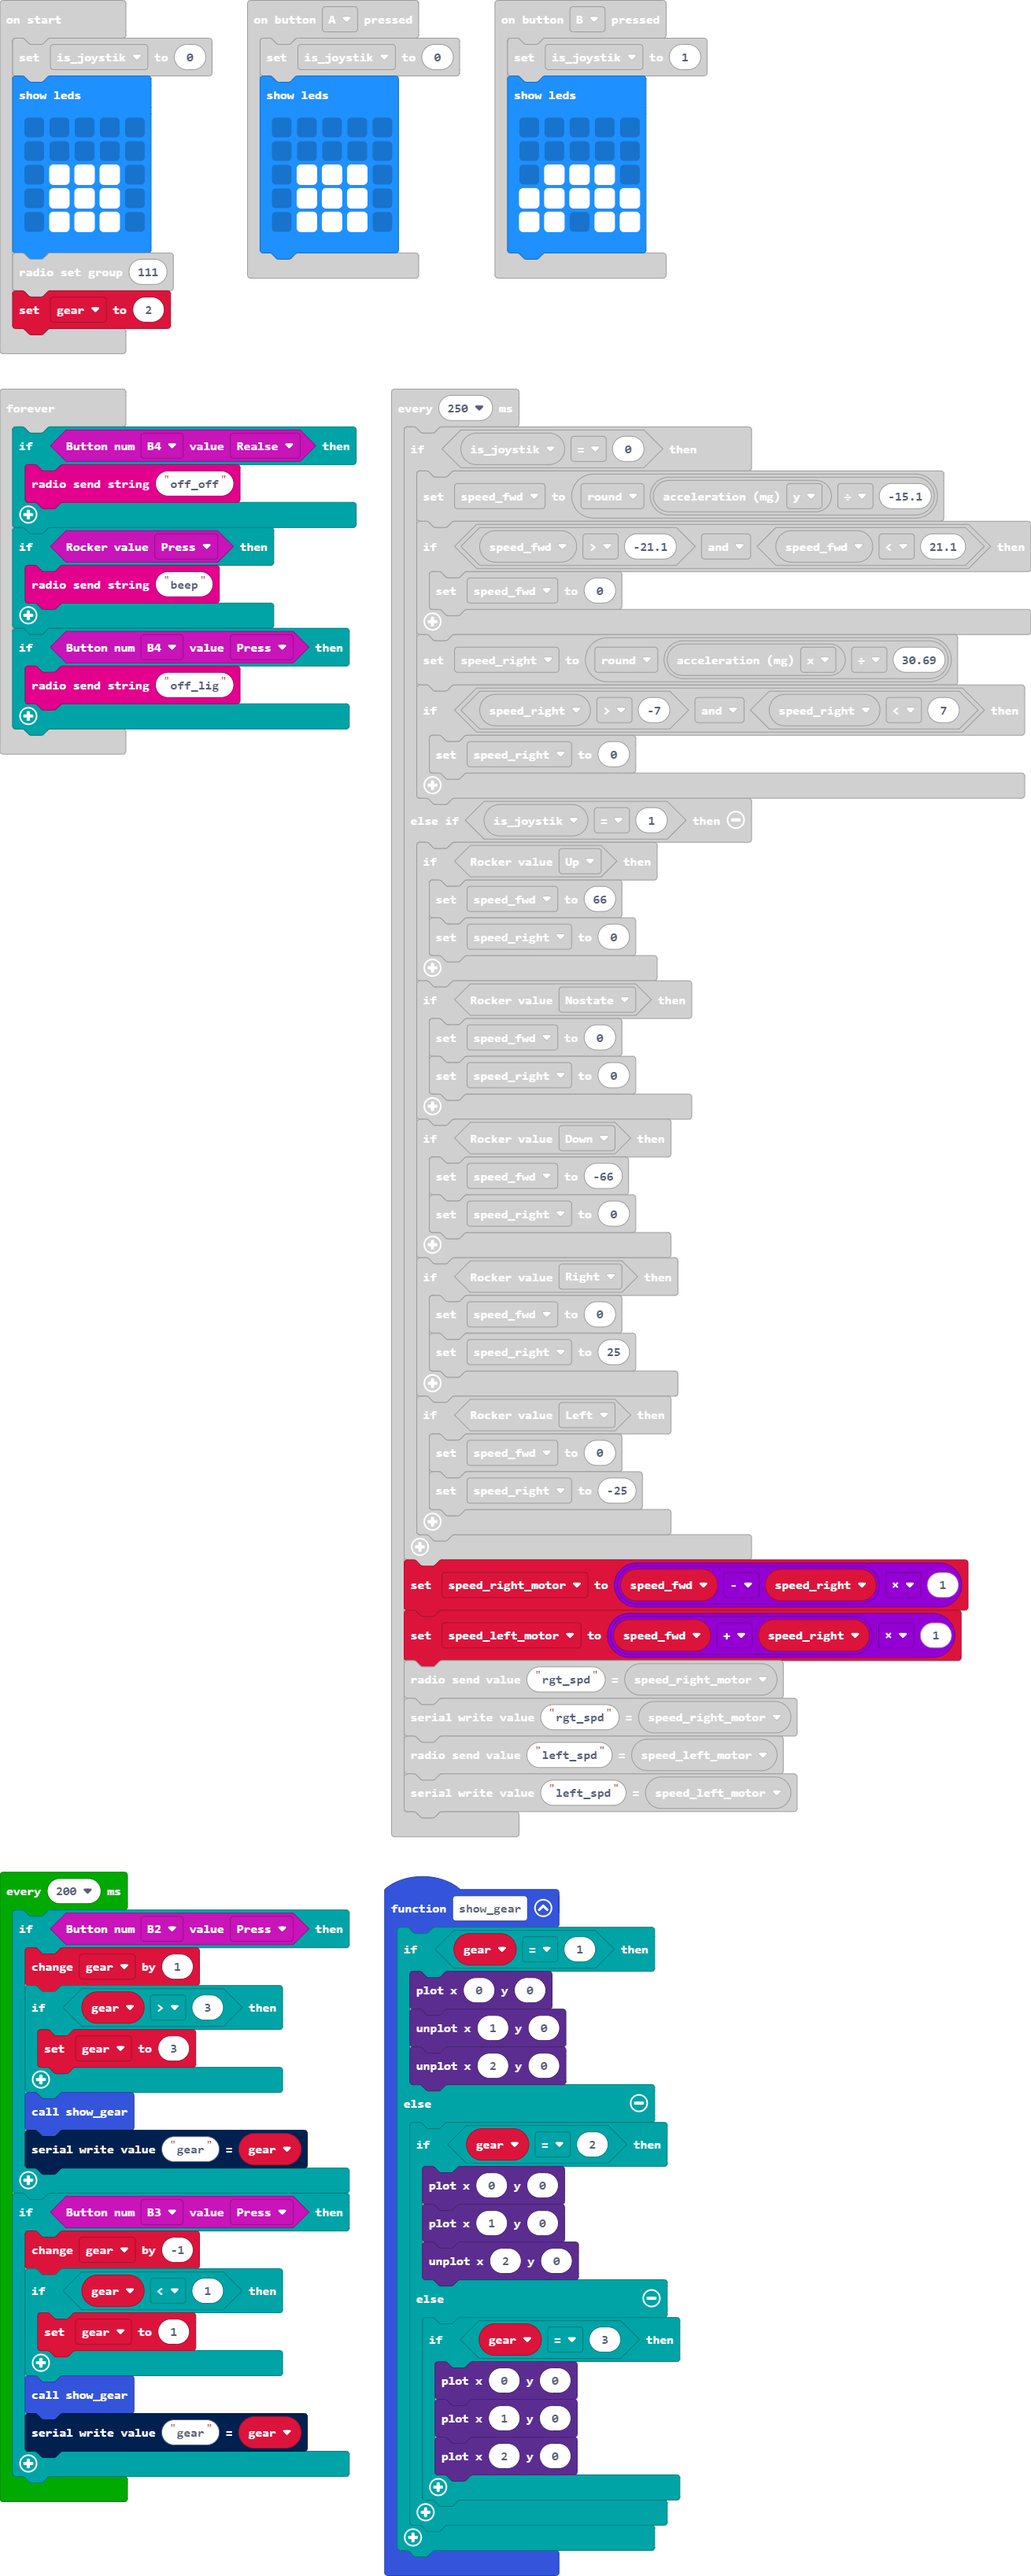
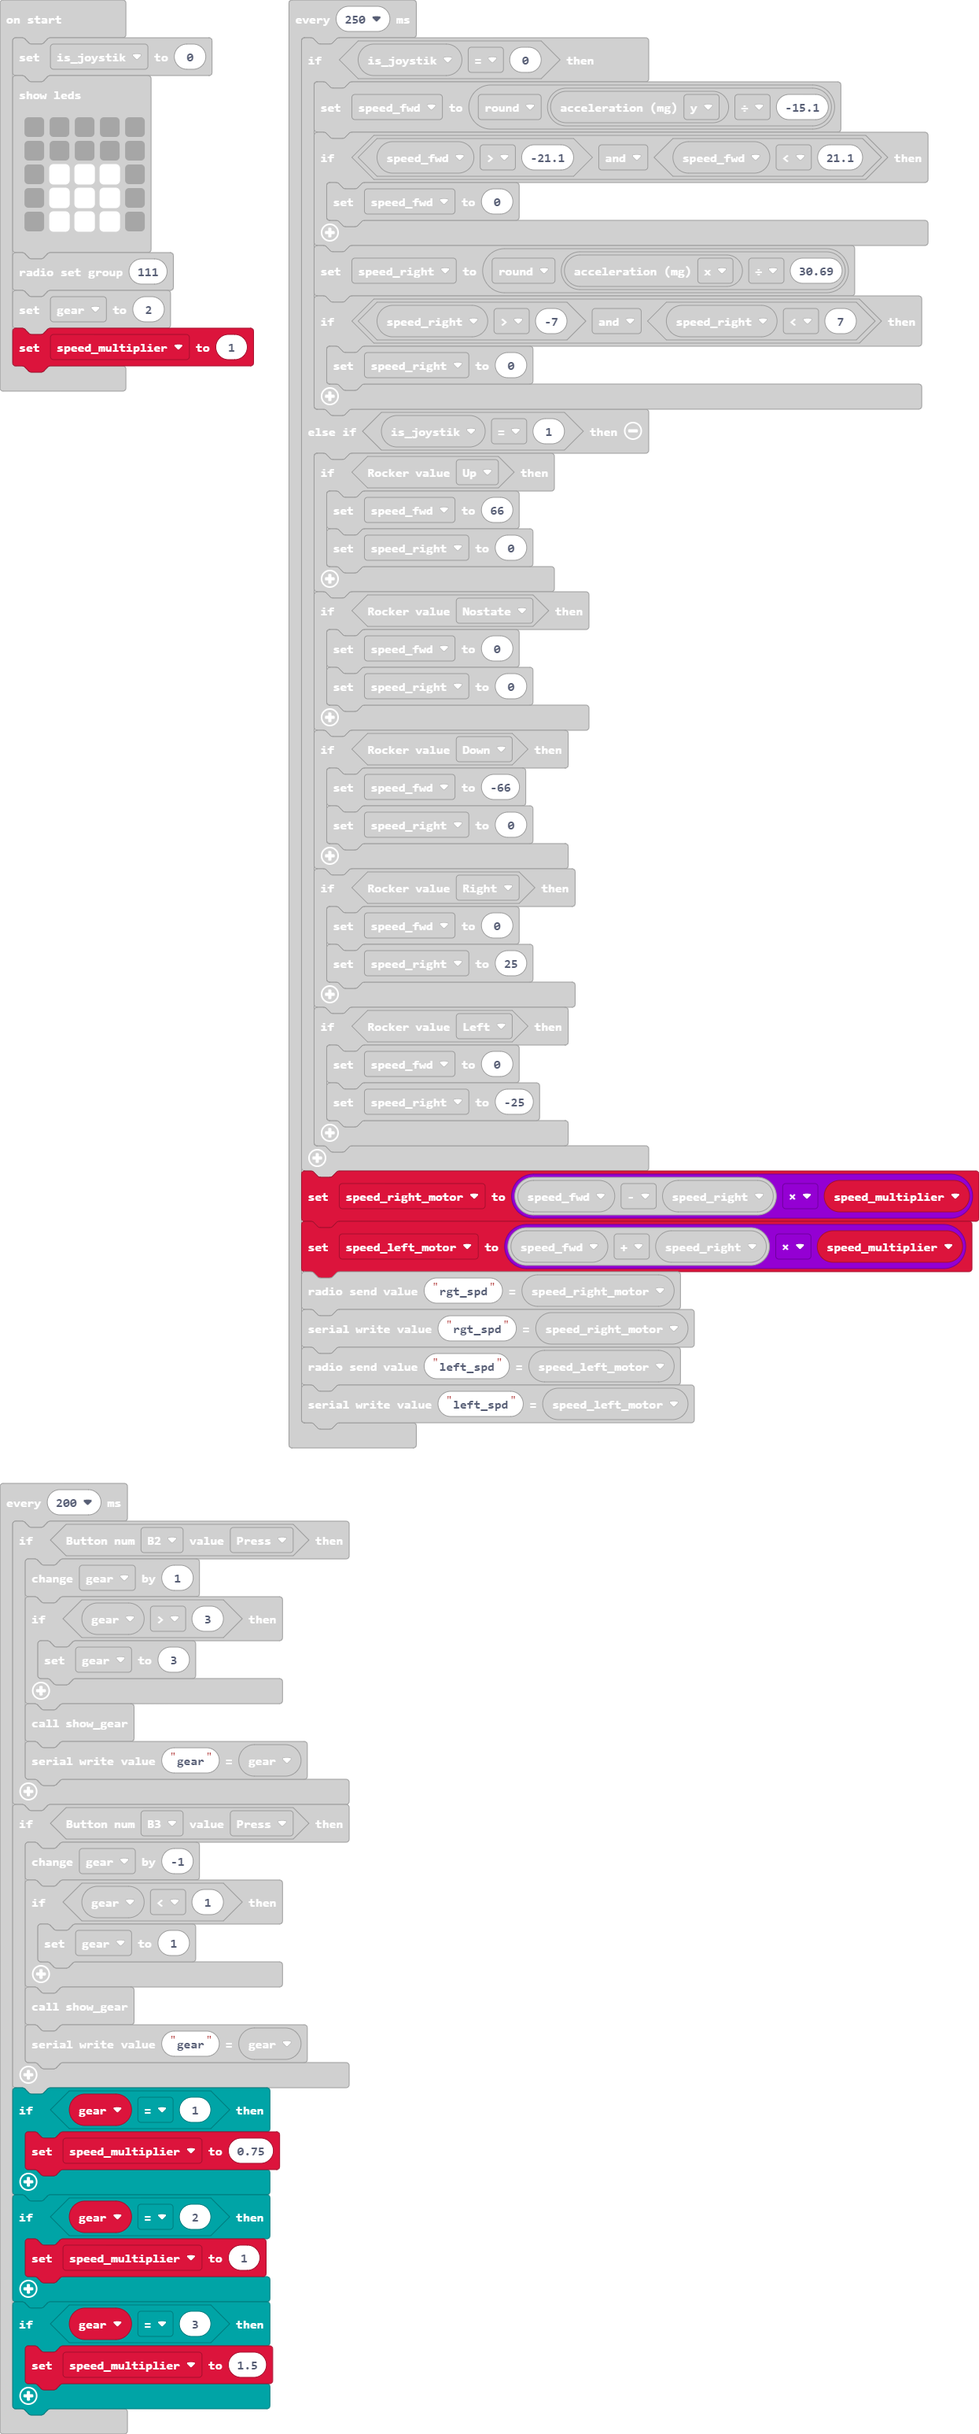
v1.3 - gear works

diff --git a/main.ts b/main.ts
@@ -1,26 +1,139 @@
-input.onButtonPressed(Button.A, function on_button_pressed_a() {
-    radio.sendString("beep")
-    basic.showIcon(IconNames.Happy)
+input.onButtonPressed(Button.A, function () {
+    is_joystik = 0
+    basic.showLeds(`
+        . . . . .
+        . . . . .
+        . # # # .
+        . # # # .
+        . # # # .
+        `)
 })
-input.onButtonPressed(Button.B, function on_button_pressed_b() {
-    radio.sendString("beeeeeeeep")
-    basic.showIcon(IconNames.Sad)
+input.onButtonPressed(Button.B, function () {
+    is_joystik = 1
+    basic.showLeds(`
+        . . . . .
+        . . . . .
+        . # # # .
+        # # # # #
+        # # . # #
+        `)
 })
-radio.onReceivedValue(function on_received_value(name: string, value: number) {
+function show_gear () {
+    if (gear == 1) {
+        led.plot(0, 0)
+        led.unplot(1, 0)
+        led.unplot(2, 0)
+    } else {
+        if (gear == 2) {
+            led.plot(0, 0)
+            led.plot(1, 0)
+            led.unplot(2, 0)
+        } else {
+            if (gear == 3) {
+                led.plot(0, 0)
+                led.plot(1, 0)
+                led.plot(2, 0)
+            }
+        }
+    }
+}
+radio.onReceivedValue(function (name, value) {
     serial.writeValue(name, value)
 })
+input.onLogoEvent(TouchButtonEvent.Pressed, function () {
+    radio.sendString("beep")
+})
+let speed_left_motor = 0
+let speed_right_motor = 0
 let speed_right = 0
 let speed_fwd = 0
+let gear = 0
+let is_joystik = 0
+is_joystik = 0
+basic.showLeds(`
+    . . . . .
+    . . . . .
+    . # # # .
+    . # # # .
+    . # # # .
+    `)
 radio.setGroup(111)
-basic.forever(function on_forever() {
-    
+gear = 2
+let speed_multiplier = 1
+basic.forever(function () {
+    if (GHBit.Button(GHBit.enButton.B4, GHBit.enButtonState.Realse)) {
+        radio.sendString("off_off")
+    }
+    if (GHBit.Rocker(GHBit.enRocker.Press)) {
+        radio.sendString("beep")
+    }
+    if (GHBit.Button(GHBit.enButton.B4, GHBit.enButtonState.Press)) {
+        radio.sendString("off_lig")
+    }
 })
-loops.everyInterval(250, function on_every_interval() {
-    
-    speed_fwd = Math.round(input.acceleration(Dimension.Y) / -10.23)
-    radio.sendValue("speed_forward", speed_fwd)
-    serial.writeValue("acc_y", speed_fwd)
-    speed_right = Math.round(input.acceleration(Dimension.X) / 10.23)
-    radio.sendValue("speed_right", speed_right)
-    serial.writeValue("acc_x", speed_right)
+loops.everyInterval(250, function () {
+    if (is_joystik == 0) {
+        speed_fwd = Math.round(input.acceleration(Dimension.Y) / -15.1)
+        if (speed_fwd > -21.1 && speed_fwd < 21.1) {
+            speed_fwd = 0
+        }
+        speed_right = Math.round(input.acceleration(Dimension.X) / 30.69)
+        if (speed_right > -7 && speed_right < 7) {
+            speed_right = 0
+        }
+    } else if (is_joystik == 1) {
+        if (GHBit.Rocker(GHBit.enRocker.Up)) {
+            speed_fwd = 66
+            speed_right = 0
+        }
+        if (GHBit.Rocker(GHBit.enRocker.Nostate)) {
+            speed_fwd = 0
+            speed_right = 0
+        }
+        if (GHBit.Rocker(GHBit.enRocker.Down)) {
+            speed_fwd = -66
+            speed_right = 0
+        }
+        if (GHBit.Rocker(GHBit.enRocker.Right)) {
+            speed_fwd = 0
+            speed_right = 25
+        }
+        if (GHBit.Rocker(GHBit.enRocker.Left)) {
+            speed_fwd = 0
+            speed_right = -25
+        }
+    }
+    speed_right_motor = (speed_fwd - speed_right) * speed_multiplier
+    speed_left_motor = (speed_fwd + speed_right) * speed_multiplier
+    radio.sendValue("rgt_spd", speed_right_motor)
+    serial.writeValue("rgt_spd", speed_right_motor)
+    radio.sendValue("left_spd", speed_left_motor)
+    serial.writeValue("left_spd", speed_left_motor)
+})
+loops.everyInterval(200, function () {
+    if (GHBit.Button(GHBit.enButton.B2, GHBit.enButtonState.Press)) {
+        gear += 1
+        if (gear > 3) {
+            gear = 3
+        }
+        show_gear()
+        serial.writeValue("gear", gear)
+    }
+    if (GHBit.Button(GHBit.enButton.B3, GHBit.enButtonState.Press)) {
+        gear += -1
+        if (gear < 1) {
+            gear = 1
+        }
+        show_gear()
+        serial.writeValue("gear", gear)
+    }
+    if (gear == 1) {
+        speed_multiplier = 0.75
+    }
+    if (gear == 2) {
+        speed_multiplier = 1
+    }
+    if (gear == 3) {
+        speed_multiplier = 1.5
+    }
 })

diff --git a/main.py b/main.py
@@ -1,31 +1,129 @@
 def on_button_pressed_a():
-    radio.send_string("beep")
-    basic.show_icon(IconNames.HAPPY)
+    global is_joystik
+    is_joystik = 0
+    basic.show_leds("""
+        . . . . .
+                . . . . .
+                . # # # .
+                . # # # .
+                . # # # .
+    """)
 input.on_button_pressed(Button.A, on_button_pressed_a)
 
 def on_button_pressed_b():
-    radio.send_string("beeeeeeeep")
-    basic.show_icon(IconNames.SAD)
+    global is_joystik
+    is_joystik = 1
+    basic.show_leds("""
+        . . . . .
+                . . . . .
+                . # # # .
+                # # # # #
+                # # . # #
+    """)
 input.on_button_pressed(Button.B, on_button_pressed_b)
+
+def show_gear():
+    if gear == 1:
+        led.plot(0, 0)
+        led.unplot(1, 0)
+        led.unplot(2, 0)
+    else:
+        if gear == 2:
+            led.plot(0, 0)
+            led.plot(1, 0)
+            led.unplot(2, 0)
+        else:
+            if gear == 3:
+                led.plot(0, 0)
+                led.plot(1, 0)
+                led.plot(2, 0)
 
 def on_received_value(name, value):
     serial.write_value(name, value)
 radio.on_received_value(on_received_value)
 
+def on_logo_pressed():
+    radio.send_string("beep")
+input.on_logo_event(TouchButtonEvent.PRESSED, on_logo_pressed)
+
+speed_left_motor = 0
+speed_right_motor = 0
 speed_right = 0
 speed_fwd = 0
+gear = 0
+is_joystik = 0
+is_joystik = 0
+basic.show_leds("""
+    . . . . .
+        . . . . .
+        . # # # .
+        . # # # .
+        . # # # .
+""")
 radio.set_group(111)
+gear = 2
+speed_multiplier = 1
 
 def on_forever():
-    pass
+    if GHBit.button(GHBit.enButton.B4, GHBit.enButtonState.REALSE):
+        radio.send_string("off_off")
+    if GHBit.rocker(GHBit.enRocker.PRESS):
+        radio.send_string("beep")
+    if GHBit.button(GHBit.enButton.B4, GHBit.enButtonState.PRESS):
+        radio.send_string("off_lig")
 basic.forever(on_forever)
 
 def on_every_interval():
-    global speed_fwd, speed_right
-    speed_fwd = Math.round(input.acceleration(Dimension.Y) / -10.23)
-    radio.send_value("speed_forward", speed_fwd)
-    serial.write_value("acc_y", speed_fwd)
-    speed_right = Math.round(input.acceleration(Dimension.X) / 10.23)
-    radio.send_value("speed_right", speed_right)
-    serial.write_value("acc_x", speed_right)
+    global speed_fwd, speed_right, speed_right_motor, speed_left_motor
+    if is_joystik == 0:
+        speed_fwd = Math.round(input.acceleration(Dimension.Y) / -15.1)
+        if speed_fwd > -21.1 and speed_fwd < 21.1:
+            speed_fwd = 0
+        speed_right = Math.round(input.acceleration(Dimension.X) / 30.69)
+        if speed_right > -7 and speed_right < 7:
+            speed_right = 0
+    elif is_joystik == 1:
+        if GHBit.rocker(GHBit.enRocker.UP):
+            speed_fwd = 66
+            speed_right = 0
+        if GHBit.rocker(GHBit.enRocker.NOSTATE):
+            speed_fwd = 0
+            speed_right = 0
+        if GHBit.rocker(GHBit.enRocker.DOWN):
+            speed_fwd = -66
+            speed_right = 0
+        if GHBit.rocker(GHBit.enRocker.RIGHT):
+            speed_fwd = 0
+            speed_right = 25
+        if GHBit.rocker(GHBit.enRocker.LEFT):
+            speed_fwd = 0
+            speed_right = -25
+    speed_right_motor = (speed_fwd - speed_right) * speed_multiplier
+    speed_left_motor = (speed_fwd + speed_right) * speed_multiplier
+    radio.send_value("rgt_spd", speed_right_motor)
+    serial.write_value("rgt_spd", speed_right_motor)
+    radio.send_value("left_spd", speed_left_motor)
+    serial.write_value("left_spd", speed_left_motor)
 loops.every_interval(250, on_every_interval)
+
+def on_every_interval2():
+    global gear, speed_multiplier
+    if GHBit.button(GHBit.enButton.B2, GHBit.enButtonState.PRESS):
+        gear += 1
+        if gear > 3:
+            gear = 3
+        show_gear()
+        serial.write_value("gear", gear)
+    if GHBit.button(GHBit.enButton.B3, GHBit.enButtonState.PRESS):
+        gear += -1
+        if gear < 1:
+            gear = 1
+        show_gear()
+        serial.write_value("gear", gear)
+    if gear == 1:
+        speed_multiplier = 0.75
+    if gear == 2:
+        speed_multiplier = 1
+    if gear == 3:
+        speed_multiplier = 1.5
+loops.every_interval(200, on_every_interval2)
